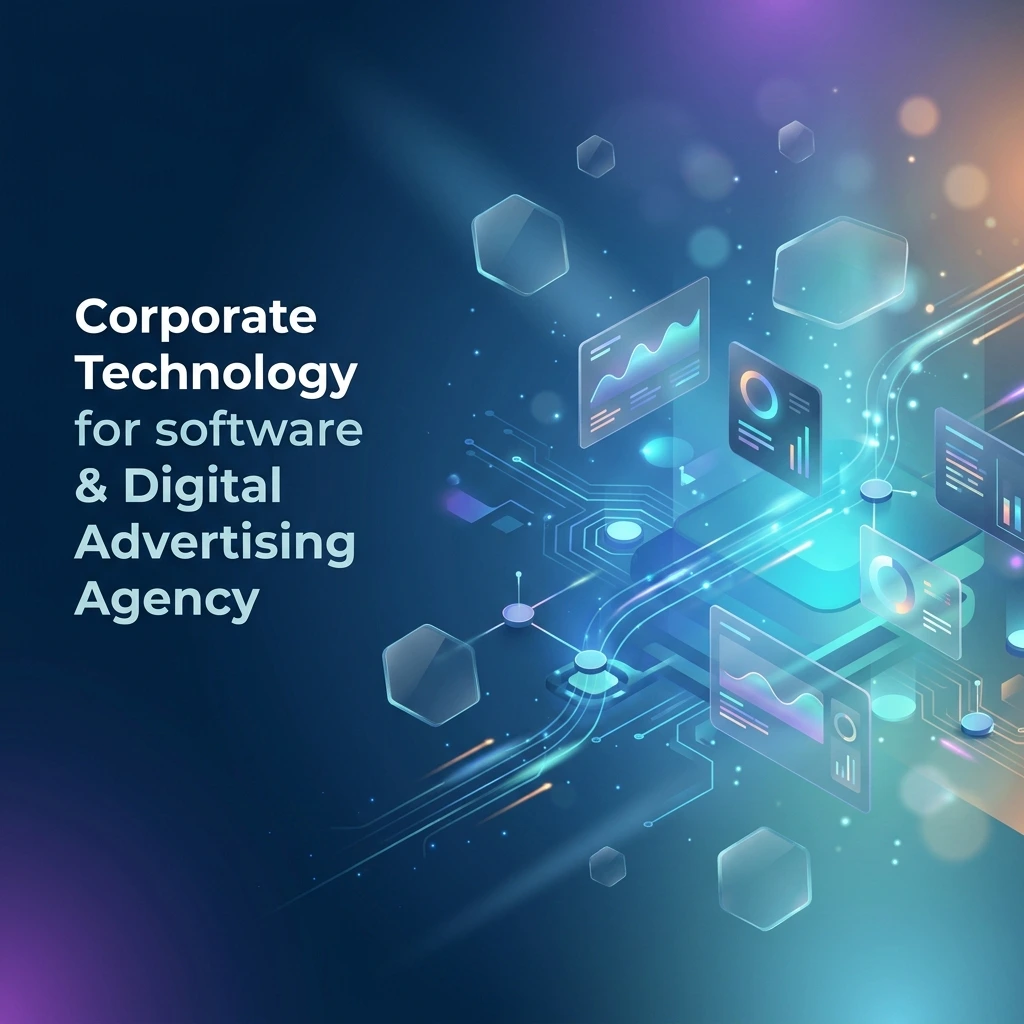
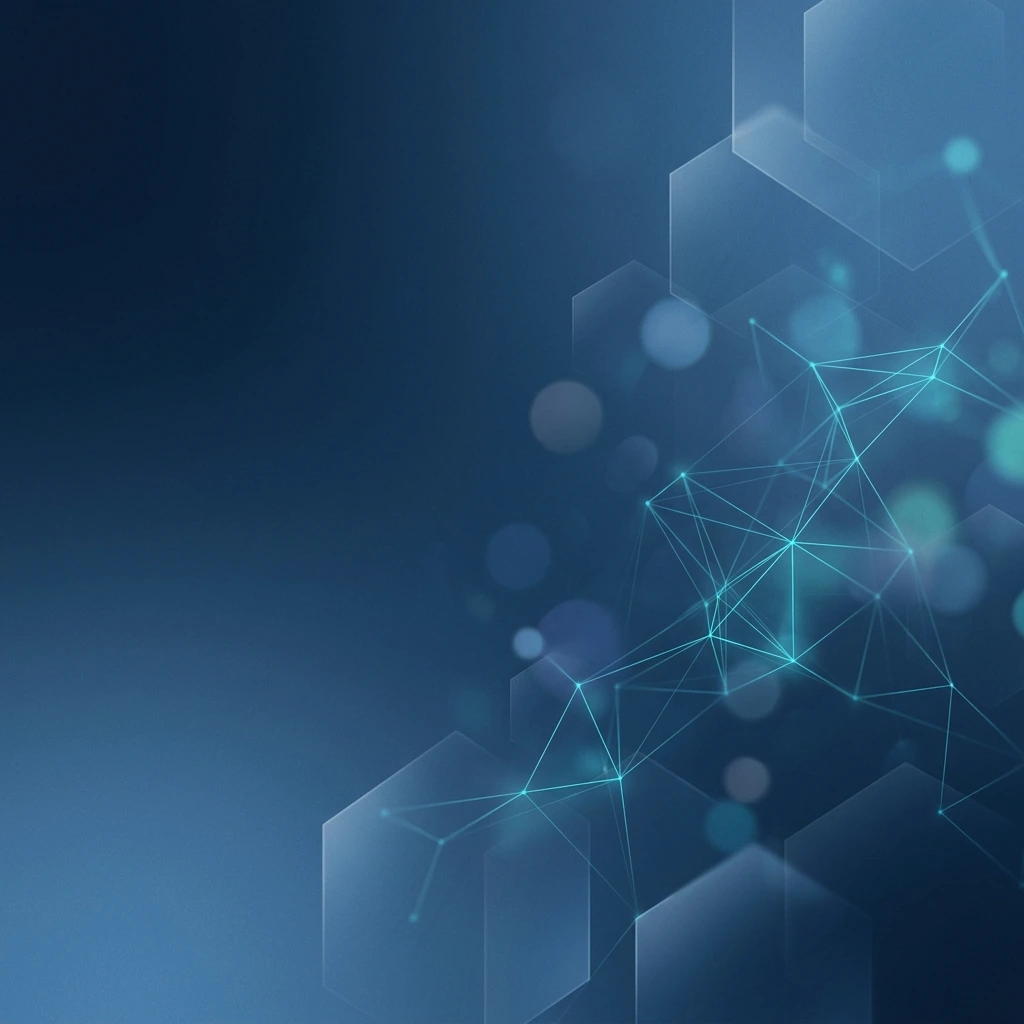
Replace hero background with clean text-free tech image and adjust gradient overlay

diff --git a/index.html b/index.html
@@ -70,7 +70,7 @@
   .burger span{width:24px;height:2px;background:var(--ink);border-radius:2px}
 
   /* HERO */
-  .hero{background:linear-gradient(180deg,rgba(255,255,255,0.35) 0%,rgba(245,248,251,0.55) 100%),url('kurumsal-teknoloji-hero-bg.webp') center/cover no-repeat;padding:88px 0 72px;border-bottom:1px solid var(--line)}
+  .hero{background:linear-gradient(180deg,rgba(255,255,255,0.7) 0%,rgba(245,248,251,0.8) 100%),url('kurumsal-teknoloji-hero-bg.webp') center/cover no-repeat;padding:88px 0 72px;border-bottom:1px solid var(--line)}
   .hero .tag{display:inline-flex;align-items:center;gap:8px;background:#fff;border:1px solid var(--line);color:var(--navy);font-size:13px;font-weight:600;padding:6px 14px;border-radius:99px;margin-bottom:22px}
   .hero .tag i{width:7px;height:7px;border-radius:50%;background:var(--accent);display:inline-block}
   .hero h1{font-size:52px;letter-spacing:-1.5px;max-width:820px;margin-bottom:20px}
@@ -227,9 +227,17 @@
         <div class="hero-visual">
           <div class="window">
             <div class="top"><i style="background:#ff5f57"></i><i style="background:#febc2e"></i><i style="background:#28c840"></i><span class="url">temeltechnology.dev</span></div>
-            <img src="kurumsal-teknoloji-hero-bg.webp" alt="Temel Technology Kurumsal Yazılım ve Teknoloji" style="width:100%;height:auto;display:block;aspect-ratio:16/10;object-fit:cover;">
+            <div class="code">
+<span class="c">// işinize özel çözüm</span><br>
+<span class="k">const</span> proje = Temel.<span class="f">build</span>({<br>
+&nbsp;&nbsp;musteri: <span class="s">"işletmeniz"</span>,<br>
+&nbsp;&nbsp;hedef&nbsp;&nbsp;: <span class="s">"büyüme"</span>,<br>
+&nbsp;&nbsp;seo&nbsp;&nbsp;&nbsp;&nbsp;: <span class="k">true</span><br>
+});<br>
+proje.<span class="f">yayinla</span>();&nbsp;&nbsp;<span class="c">// hazır ✓</span>
+            </div>
           </div>
-          <div class="hero-badge"><span class="ic"><svg width="18" height="18" viewBox="0 0 24 24" fill="none" stroke="currentColor" stroke-width="2"><path d="M13 2L3 14h7l-1 8 10-12h-7l1-8z"/></svg></span><div><b>Hızlı &amp; SEO Uyumlu</b><span>Statik altyapı &amp; Modern Arayüz</span></div></div>
+          <div class="hero-badge"><span class="ic"><svg width="18" height="18" viewBox="0 0 24 24" fill="none" stroke="currentColor" stroke-width="2"><path d="M13 2L3 14h7l-1 8 10-12h-7l1-8z"/></svg></span><div><b>Hızlı &amp; SEO uyumlu</b><span>Statik altyapı</span></div></div>
         </div>
       </div>
     </div>
